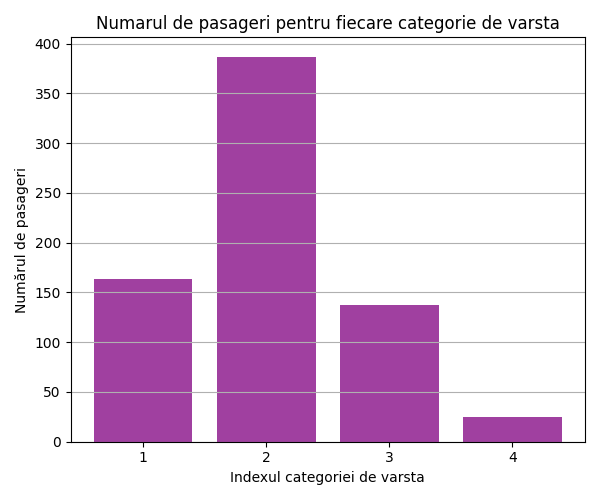
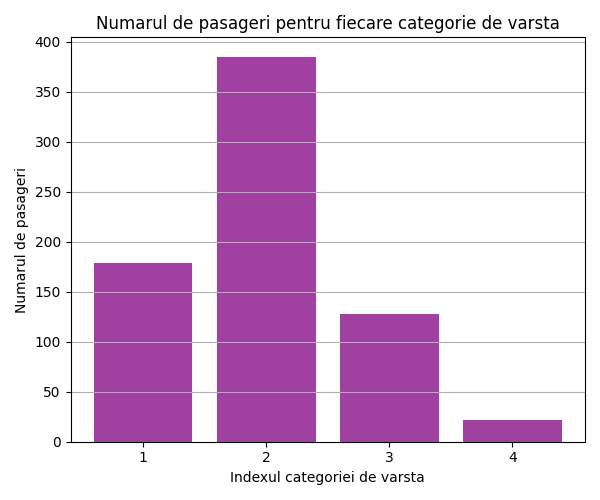
primele 6 cerinte

diff --git a/proiect.py b/proiect.py
@@ -11,6 +11,7 @@ data = pd.read_csv('train.csv')
 numar_coloane = len(data.columns)
 tipuri_date = data.dtypes
 valori_lipsa = data.isnull().sum()
+numar_linii = data.shape[0]
 linii_duplicate = data.duplicated().any()
 if linii_duplicate == False:
     linii_duplicate = "Nu"
@@ -20,6 +21,7 @@ else:
 print(f"\nNumarul de coloane: {numar_coloane}\n")
 print(f"Tipurile datelor din fiecare coloana:\n{tipuri_date}\n")
 print(f"Numarul de valori lipsa pentru fiecare coloana:\n{valori_lipsa}\n")
+print(f"Numarul de linii: {numar_linii}\n")
 print(f"Exista linii duplicate? {linii_duplicate}\n")
 
 # CERINTA 2
@@ -30,9 +32,9 @@ print(f"Procentul persoanelor care au supraviețuit: {rata_supravietuire[1]:.2f}
 print(f"Procentul persoanelor care nu au supraviețuit: {rata_supravietuire[0]:.2f}%\n")
 
 # Procentul pasagerilor pentru fiecare tip de clasa
-procent_clasa = data['Pclass'].value_counts(normalize=True) * 100
+procent_clasa = ((data['Pclass'].value_counts(normalize=True) * 100)).round(2)
 print("Procentul pasagerilor pentru fiecare tip de clasa:\n\n")
-for clasa, procent in zip(procent_clasa.index, procent_clasa.values.round(2)):
+for clasa, procent in zip(procent_clasa.index, procent_clasa.values):
     print(f" Clasa {clasa}: {procent}%")
 print("\n")
 
@@ -104,7 +106,7 @@ categorii_varsta = ['0-20', '21-40', '41-60', '61+']
 
 # Cati pasageri avem pentru fiecare categorie
 # Numărarea pasagerilor pentru fiecare categorie de vârstă
-nr_pasageri_per_categorie = pd.cut(data['Age'], bins=capete_intreval, right=False)
+nr_pasageri_per_categorie = pd.cut(data['Age'], bins=capete_intreval, right=True)
 nr_pasageri_per_categorie = nr_pasageri_per_categorie.value_counts().sort_index()
 nr_pasageri_per_categorie.index = categorii_varsta
 
@@ -113,7 +115,7 @@ print(nr_pasageri_per_categorie)
 print('\n')
 
 # Introducerea unei coloane suplimentare cu indexul categoriei de varsta pentru fiecare exemplu
-data['Index'] = pd.cut(data['Age'], bins=capete_intreval, labels=False, right=False)
+data['Index'] = pd.cut(data['Age'], bins=capete_intreval, labels=False, right=True)
 index_categorii = [1, 2, 3, 4]
 data['Index'] = data['Index'].map(dict(zip(range(len(categorii_varsta)), index_categorii)))
 # Afisarea DataFrame-ului cu coloana suplimentara adaugata
@@ -126,7 +128,7 @@ fig, ax = plt.subplots(figsize=(6, 5))
 ax.bar(index_categorii, nr_pasageri_per_categorie, color='purple', alpha=0.75)
 ax.set_title('Numarul de pasageri pentru fiecare categorie de varsta')
 ax.set_xlabel('Indexul categoriei de varsta')
-ax.set_ylabel('Numărul de pasageri')
+ax.set_ylabel('Numarul de pasageri')
 ax.grid(axis='y')
 
 plt.xticks(index_categorii)
@@ -137,6 +139,36 @@ plt.savefig("grafic2.png")
 print("\nGraficul este salvat în grafic2.png\n")
 
 # CERINTA 6
+
+# Numarul de barbati care au supravietuit din fiecare categorie
+supravietuitori_barbati = data[(data['Sex'] == 'male') & (data['Survived'] == 1)]
+# nr_barbati_supravietuitori = len(supravietuitori_barbati)
+# print(f"Numarul de barbati care au supravietuit: {nr_barbati_supravietuitori}")
+supravietuitori_barbati_per_categorie = data[data['Sex'] == 'male'].groupby('Index')['Survived'].sum()
+print('Numarul de barbati care au supravietuit pentru fiecare dintre cele 4 categorii de varsta:\n')
+for index, numar in supravietuitori_barbati_per_categorie.items():
+    print(f"Categoria {index}: {numar} barbati")
+print('\n')
+
+# Procentul de supravietuire al barbatilor in functie de categoria de varsta
+total_barbati = data[data['Sex'] == 'male']
+total_barbati_per_categorie = total_barbati['Index'].value_counts().sort_index()
+procent_supravietuire_barbati = ((supravietuitori_barbati_per_categorie / total_barbati_per_categorie) * 100).round(2)
+# for index, procent in procent_supravietuire_barbati.items():
+#     print(f"Categoria {index}: {procent}%")
+# print('\n')
+
+# Graficul pentru influenta varstei asupra procentului de supravietuire a barbatilor
+fig, ax = plt.subplots(figsize=(6, 5))
+ax.bar(index_categorii, procent_supravietuire_barbati, color='red', alpha=0.75)
+ax.set_title('Procentul de supravietuire al barbatilor in functie de categoria de varsta')
+ax.set_xlabel('Indexul categoriei de varsta')
+ax.set_ylabel('Procentul de supravietuire')
+ax.grid(axis='y')
+plt.xticks(index_categorii)
+plt.tight_layout()
+plt.savefig("grafic3.png")
+print("Graficul este salvat in grafic3.png\n")
 
 # CERINTA 7
 
